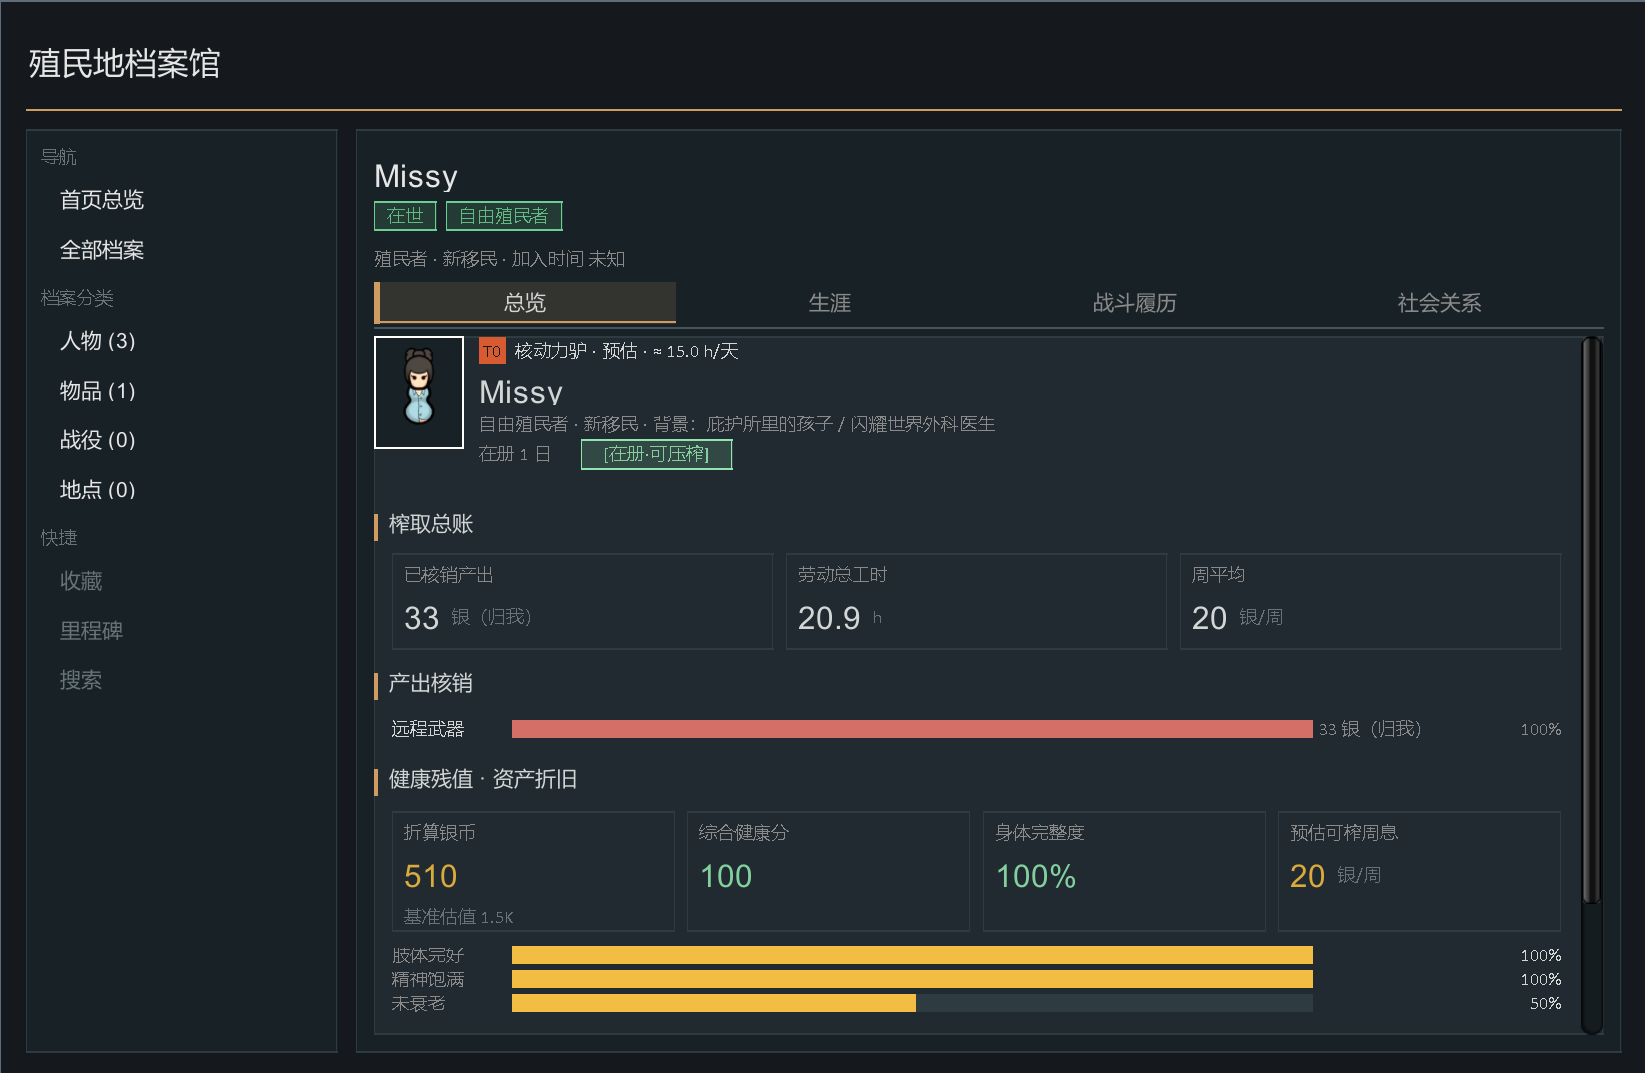
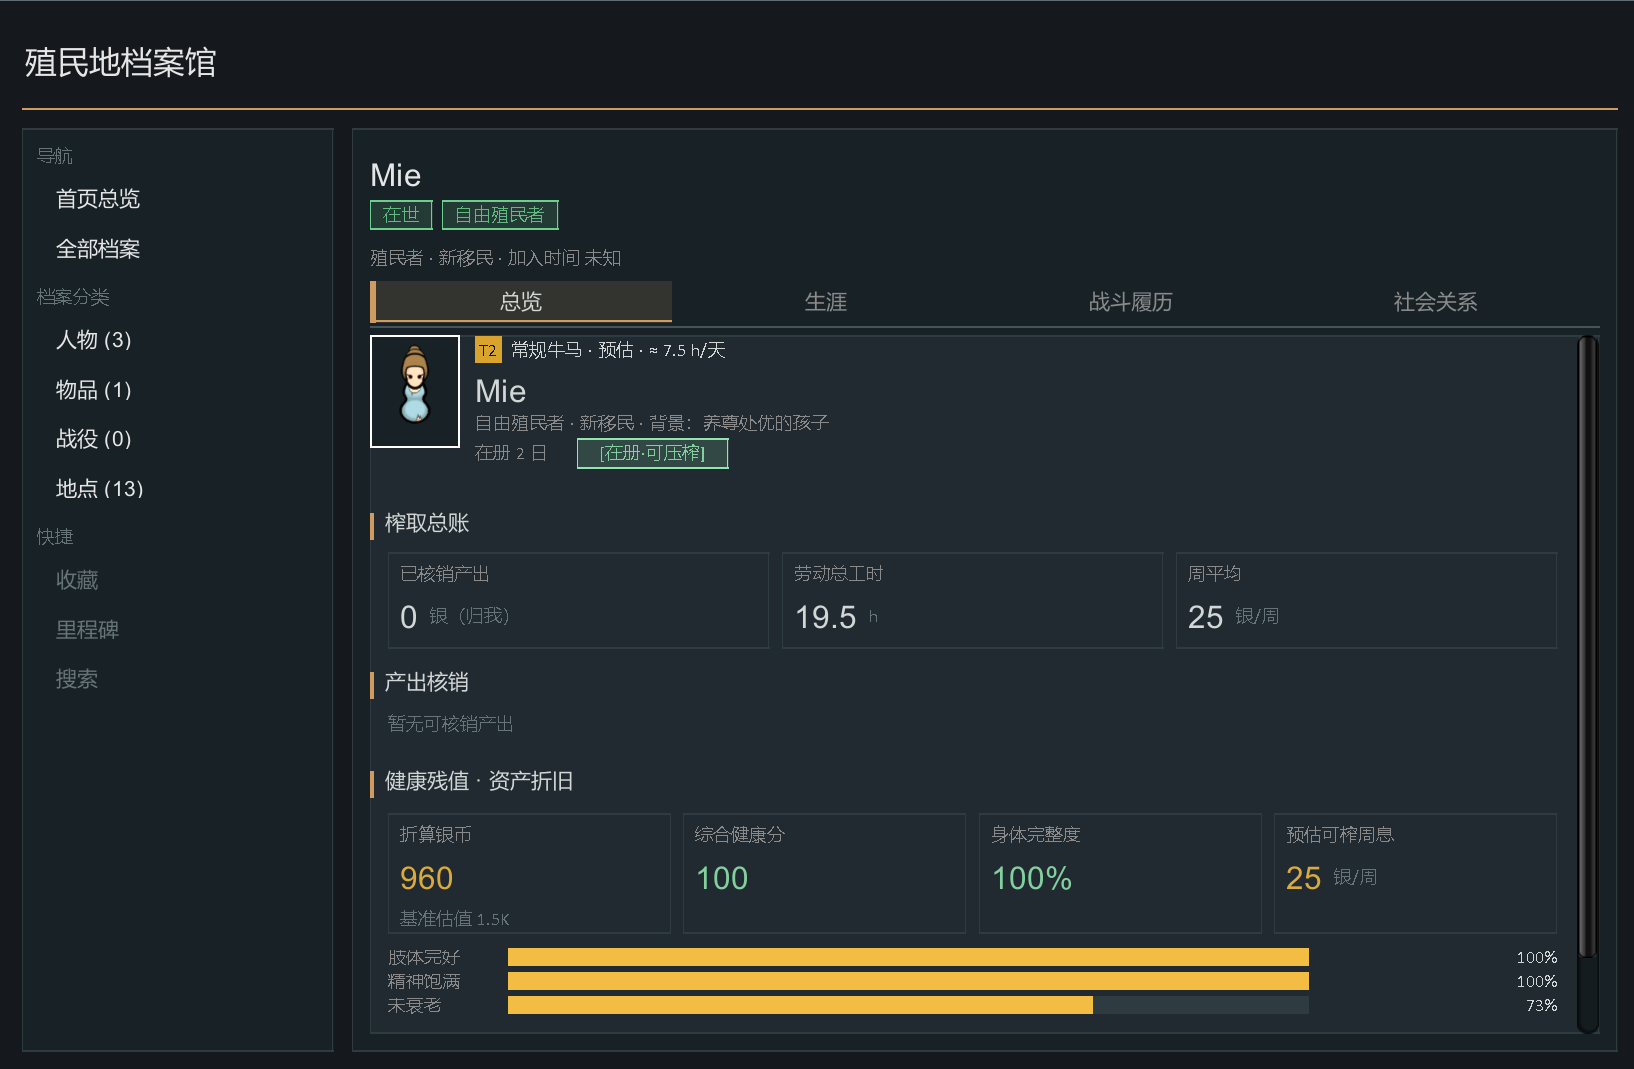
fix: restore GUI color state (prevColor) in archive tab; centralize location-atlas trade category mapping; refresh screenshots

diff --git a/Source/PersonalChronicle/Archive/ArchiveMainTabWindow.cs b/Source/PersonalChronicle/Archive/ArchiveMainTabWindow.cs
@@ -1322,7 +1322,7 @@ namespace PersonalChronicle.Archive
             GUI.color = ArchiveUiStyle.Dim;
             Widgets.Label(new Rect(inner.x, y, inner.width, 18f),
                 "PersonalChronicle.UI.Navigation".Translate().ToString());
-            GUI.color = Color.white;
+            GUI.color = prevColor;
             y += 20f;
 
             if (DrawSidebarItem(inner.x, y, inner.width, itemHeight,
@@ -1343,7 +1343,7 @@ namespace PersonalChronicle.Archive
             GUI.color = ArchiveUiStyle.Dim;
             Widgets.Label(new Rect(inner.x, y, inner.width, 18f),
                 "PersonalChronicle.UI.Categories".Translate().ToString());
-            GUI.color = Color.white;
+            GUI.color = prevColor;
             y += 20f;
 
             y = DrawSidebarCategory(inner, y, itemHeight, itemGap, ArchiveCategoryKeys.Pawn, service);
@@ -1356,7 +1356,7 @@ namespace PersonalChronicle.Archive
             GUI.color = ArchiveUiStyle.Dim;
             Widgets.Label(new Rect(inner.x, y, inner.width, 18f),
                 "PersonalChronicle.UI.Tools".Translate().ToString());
-            GUI.color = Color.white;
+            GUI.color = prevColor;
             y += 20f;
 
             y = DrawSidebarTool(inner, y, itemHeight, itemGap, "PersonalChronicle.UI.Favorites");
@@ -1468,7 +1468,7 @@ namespace PersonalChronicle.Archive
             GUI.color = ArchiveUiStyle.SecondaryText;
             Widgets.Label(new Rect(viewRect.x, y, viewRect.width, 18f),
                 "PersonalChronicle.UI.ArchiveHomeDesc".Translate().ToString());
-            GUI.color = Color.white;
+            GUI.color = prevColor;
             Text.Font = GameFont.Small;
             y += 26f;
 
@@ -1597,7 +1597,7 @@ namespace PersonalChronicle.Archive
                 float connectorEnd = left ? cardRect.x : nodeRect.x;
                 float connectorLen = Mathf.Max(0f, connectorEnd - connectorStart);
                 Widgets.DrawLineHorizontal(connectorStart, currentY + rowH / 2f, connectorLen);
-                GUI.color = Color.white;
+                GUI.color = prevColor;
 
                 ArchiveUiStyle.DrawPanel(cardRect);
                 Rect cardInner = cardRect.ContractedBy(6f);
@@ -1606,7 +1606,7 @@ namespace PersonalChronicle.Archive
                 Text.Font = GameFont.Tiny;
                 GUI.color = ArchiveUiStyle.SecondaryText;
                 Widgets.Label(new Rect(cardInner.x, cardInner.y + 22f, cardInner.width, 16f), date);
-                GUI.color = Color.white;
+                GUI.color = prevColor;
                 if (Widgets.ButtonInvisible(cardRect))
                 {
                     OpenEventDetail(service, ev);
@@ -2287,7 +2287,7 @@ namespace PersonalChronicle.Archive
             GUI.color = ArchiveUiStyle.SecondaryText;
             Widgets.Label(new Rect(viewRect.x, y, viewRect.width, 18f),
                 "PersonalChronicle.UI.OverviewDesc".Translate().ToString());
-            GUI.color = Color.white;
+            GUI.color = prevColor;
             Text.Font = GameFont.Small;
             y += 28f;
 
@@ -2400,7 +2400,7 @@ namespace PersonalChronicle.Archive
                 GUI.color = ArchiveUiStyle.Muted;
                 Widgets.Label(new Rect(card.x + UITheme.CardPadX, card.y + 4f, card.width - UITheme.CardPadX * 2f, 16f),
                     clickable ? CategoryLabel(categoryKey) : "PersonalChronicle.UI.StatsOnlyNote".Translate().ToString());
-                GUI.color = Color.white;
+                GUI.color = prevColor;
 
                 Text.Font = GameFont.Small;
                 Widgets.Label(new Rect(card.x + UITheme.CardPadX, card.y + 22f, card.width - UITheme.CardPadX * 2f, 20f), ObjectDisplayLabel(obj));
@@ -2408,7 +2408,7 @@ namespace PersonalChronicle.Archive
                 Text.Font = GameFont.Tiny;
                 GUI.color = ArchiveUiStyle.Muted;
                 Widgets.Label(new Rect(card.x + UITheme.CardPadX, card.y + 44f, card.width - UITheme.CardPadX * 2f, 18f), ObjectSubLabel(obj));
-                GUI.color = Color.white;
+                GUI.color = prevColor;
 
                 if (clickable && Widgets.ButtonInvisible(card))
                 {
@@ -3072,7 +3072,7 @@ namespace PersonalChronicle.Archive
                 GUI.color = UITheme.SecondaryText;
                 Widgets.Label(new Rect(rect.x, y, rect.width, 18f),
                     "PersonalChronicle.UI.NoPlaceHistory".Translate().ToString());
-                GUI.color = Color.white;
+                GUI.color = prevColor;
                 return y + 22f;
             }
             Text.Font = GameFont.Tiny;
@@ -3083,7 +3083,7 @@ namespace PersonalChronicle.Archive
                 "PersonalChronicle.UI.PlaceEnter".Translate().ToString());
             Widgets.Label(new Rect(rect.x + rect.width * 0.72f, y, rect.width * 0.26f, 16f),
                 "PersonalChronicle.UI.PlaceLeave".Translate().ToString());
-            GUI.color = Color.white;
+            GUI.color = prevColor;
             y += 18f;
             int shown = 0;
             for (int i = pawn.PlaceHistory.Count - 1; i >= 0 && shown < maxRows; i--)
@@ -3580,7 +3580,7 @@ namespace PersonalChronicle.Archive
                 Text.Font = GameFont.Tiny;
                 GUI.color = ArchiveUiStyle.SecondaryText;
                 Widgets.Label(new Rect(row.x + row.width - 196f, row.y + 6f, 190f, 18f), link.CategoryLabel);
-                GUI.color = Color.white;
+                GUI.color = prevColor;
                 Text.Font = GameFont.Small;
                 if (link.Target != NavTarget.None && Widgets.ButtonInvisible(row))
                 {
@@ -3755,7 +3755,7 @@ namespace PersonalChronicle.Archive
                 Text.Font = GameFont.Tiny;
                 GUI.color = UITheme.SecondaryText;
                 Widgets.Label(new Rect(row.x + row.width - 196f, row.y + 6f, 192f, 18f), part);
-                GUI.color = Color.white;
+                GUI.color = prevColor;
                 Widgets.DrawLineHorizontal(row.x, row.yMax, row.width);
                 y += TimelineRowHeight;
             }
@@ -3907,7 +3907,7 @@ namespace PersonalChronicle.Archive
             GUI.color = UITheme.SecondaryText;
             Widgets.Label(new Rect(rect.x, rect.y, rect.width, 24f),
                 "PersonalChronicle.UI.NoLiveData".Translate().ToString());
-            GUI.color = Color.white;
+            GUI.color = prevColor;
         }
 
         // ---- Detail: production tab (LD-1) -----------------------------------
@@ -3934,7 +3934,7 @@ namespace PersonalChronicle.Archive
                 "PersonalChronicle.UI.ProductionCount".Translate().ToString());
             Widgets.Label(new Rect(rect.x + rect.width - 190f, y, 180f, 18f),
                 "PersonalChronicle.UI.ProductionLastTime".Translate().ToString());
-            GUI.color = Color.white;
+            GUI.color = prevColor;
             y += 22f;
 
             for (int i = 0; i < cachedProductionLines.Count; i++)
@@ -4010,7 +4010,7 @@ namespace PersonalChronicle.Archive
                     GUI.color = ArchiveUiStyle.Muted;
                     Widgets.Label(new Rect(x + UITheme.CardPadX, cardY + 28f, width - UITheme.CardPadX * 2f, 16f),
                         "PersonalChronicle.UI.ProductionCard".Translate(type.Quantity, FormatMarketValue(type.MarketValue)).ToString());
-                    GUI.color = Color.white;
+                    GUI.color = prevColor;
                 }
                 y += ((types.Count + 1) / 2) * 58f;
             }
@@ -4056,7 +4056,7 @@ namespace PersonalChronicle.Archive
                     Text.Anchor = TextAnchor.MiddleCenter;
                     GUI.color = current ? ArchiveUiStyle.Text : ArchiveUiStyle.Muted;
                     Widgets.Label(rung, tier.DisplayCode ?? tier.DefName);
-                    GUI.color = Color.white;
+                    GUI.color = prevColor;
                     Text.Anchor = TextAnchor.UpperLeft;
                     TooltipHandler.TipRegion(rung,
                         TranslateIntensityKey(tier.LabelKey, tier.DisplayCode ?? tier.DefName));
@@ -4115,7 +4115,7 @@ namespace PersonalChronicle.Archive
                     : "PersonalChronicle.UI.Intensity.ObservedWindow".Translate(
                         FormatDays(intensity != null ? intensity.ObservedDays : 0d)).ToString();
                 Widgets.Label(new Rect(badge.x + 8f, badge.y + 44f, badge.width - 16f, 20f), badgeSubtitle);
-                GUI.color = Color.white;
+                GUI.color = prevColor;
                 Text.Anchor = TextAnchor.UpperLeft;
             }
             finally
@@ -4730,7 +4730,7 @@ namespace PersonalChronicle.Archive
             GUI.color = ArchiveUiStyle.Muted;
             Widgets.Label(new Rect(rect.x, y, rect.width, 28f),
                 "PersonalChronicle.UI.WorkTimeFootnote".Translate().ToString());
-            GUI.color = Color.white;
+            GUI.color = prevColor;
             y += 32f;
 
             if (cachedIntensityWorkTypes == null || cachedIntensityWorkTypes.Count == 0)
@@ -4775,7 +4775,7 @@ namespace PersonalChronicle.Archive
                     "PersonalChronicle.UI.Intensity.WorkShare".Translate(
                         Mathf.RoundToInt(row.Share01 * 100f),
                         Mathf.RoundToInt(row.RelativeToMaximum01 * 100f)).ToString());
-                GUI.color = Color.white;
+                GUI.color = prevColor;
                 Widgets.FillableBar(new Rect(card.x + UITheme.CardPadX, card.y + 106f, card.width - UITheme.CardPadX * 2f, 6f),
                     Mathf.Clamp01(row.Share01));
             }
@@ -4920,7 +4920,7 @@ namespace PersonalChronicle.Archive
                 GUI.color = UITheme.SecondaryText;
                 Widgets.Label(new Rect(row.x + row.width - 196f, row.y + 6f, 190f, 18f),
                     "PersonalChronicle.UI.SharedEvents".Translate().ToString());
-                GUI.color = Color.white;
+                GUI.color = prevColor;
                 if (link.Target != NavTarget.None && Widgets.ButtonInvisible(row))
                 {
                     NavigateTarget(service, link.Target, link.StableId, null);
@@ -5425,6 +5425,7 @@ namespace PersonalChronicle.Archive
 
         private void DrawPlacesTab(Rect rect, IArchiveService service)
         {
+            Color prevColor = GUI.color;
             float y = rect.y;
             DrawSectionTitle(rect, ref y, "PersonalChronicle.UI.PlacesCurrent".Translate().ToString());
 
@@ -5438,7 +5439,7 @@ namespace PersonalChronicle.Archive
                 GUI.color = UITheme.SecondaryText;
                 Widgets.Label(new Rect(rect.x, y + 26f, rect.width, 40f),
                     "PersonalChronicle.UI.NoLocationExplanation".Translate().ToString());
-                GUI.color = Color.white;
+                GUI.color = prevColor;
                 return;
             }
 
@@ -5956,6 +5957,7 @@ namespace PersonalChronicle.Archive
 
         private void DrawDetailTimeline(Rect rect, IArchiveService service)
         {
+            Color prevColor = GUI.color;
             float y = DrawTimelineToolbar(rect, rect.y);
             int visibleCount = 0;
             for (int i = 0; i < cachedDetailEvents.Count; i++)
@@ -5985,7 +5987,7 @@ namespace PersonalChronicle.Archive
                 Text.Font = GameFont.Tiny;
                 GUI.color = UITheme.SecondaryText;
                 Widgets.Label(new Rect(row.x + row.width - 186f, row.y + 3f, 182f, 18f), line.ParamsText);
-                GUI.color = Color.white;
+                GUI.color = prevColor;
 
                 float cy = row.y + TimelineRowHeight;
                 if (descHeight > 0f)
@@ -5993,7 +5995,7 @@ namespace PersonalChronicle.Archive
                     Text.Font = GameFont.Tiny;
                     GUI.color = UITheme.SecondaryText;
                     Widgets.Label(new Rect(row.x + 4f, cy, row.width - 8f, descHeight), line.DescriptionText);
-                    GUI.color = Color.white;
+                    GUI.color = prevColor;
                     cy += descHeight;
                 }
                 if (chipsHeight > 0f)
@@ -6045,12 +6047,13 @@ namespace PersonalChronicle.Archive
 
         private static bool DrawTimelineToggle(Rect rect, bool enabled, string label)
         {
+            Color prevColor = GUI.color;
             ArchiveUiStyle.DrawSelectedNavigation(rect, enabled);
             Text.Anchor = TextAnchor.MiddleLeft;
             GUI.color = enabled ? ArchiveUiStyle.Text : ArchiveUiStyle.Muted;
             Widgets.Label(new Rect(rect.x + 8f, rect.y, rect.width - 16f, rect.height), label);
             Text.Anchor = TextAnchor.UpperLeft;
-            GUI.color = Color.white;
+            GUI.color = prevColor;
             if (Widgets.ButtonInvisible(rect))
             {
                 enabled = !enabled;
@@ -6116,6 +6119,7 @@ namespace PersonalChronicle.Archive
 
         private void DrawChips(Rect rect, List<ChipView> chips, IArchiveService service)
         {
+            Color prevColor = GUI.color;
             float x = rect.x;
             Text.Font = GameFont.Tiny;
             for (int i = 0; i < chips.Count; i++)
@@ -6135,7 +6139,7 @@ namespace PersonalChronicle.Archive
                     ? UITheme.PillBlue
                     : UITheme.SecondaryText;
                 Widgets.Label(chipRect, chip.Label);
-                GUI.color = Color.white;
+                GUI.color = prevColor;
                 if (chip.Target != NavTarget.None && Widgets.ButtonInvisible(chipRect))
                 {
                     NavigateTarget(service, chip.Target, chip.StableId, null);
@@ -6148,6 +6152,7 @@ namespace PersonalChronicle.Archive
 
         private void DrawEventContent(Rect inner, IArchiveService service)
         {
+            Color prevColor = GUI.color;
             if (cachedEventDetail == null)
             {
                 Text.Font = GameFont.Small;
@@ -6176,7 +6181,7 @@ namespace PersonalChronicle.Archive
                 desc = desc + " · " + cachedEventDetail.Primary.LabelSnapshot;
             }
             Widgets.Label(new Rect(viewRect.x, y, viewRect.width, 18f), desc);
-            GUI.color = Color.white;
+            GUI.color = prevColor;
             y += 26f;
 
             // Association network tree panel.
@@ -6205,7 +6210,7 @@ namespace PersonalChronicle.Archive
                 string.IsNullOrEmpty(cachedEventDescription)
                     ? "PersonalChronicle.UI.NoEvents".Translate().ToString()
                     : cachedEventDescription);
-            GUI.color = Color.white;
+            GUI.color = prevColor;
             Text.Font = GameFont.Small;
 
             Widgets.EndScrollView();
@@ -6272,7 +6277,7 @@ namespace PersonalChronicle.Archive
                     ? UITheme.PillBlue
                     : UITheme.SecondaryText;
                 Widgets.Label(labelRect, line.Label);
-                GUI.color = Color.white;
+                GUI.color = prevColor;
 
                 if (line.Target != NavTarget.None)
                 {

diff --git a/Source/PersonalChronicle/Capture/LocationAtlasCapture.cs b/Source/PersonalChronicle/Capture/LocationAtlasCapture.cs
@@ -545,28 +545,49 @@ namespace PersonalChronicle.Capture
             }
         }
 
+        // Centralized trade-category normalization. Source DefNames come from
+        // vanilla StockGenerator_Category.categoryDef; the mapping below is the
+        // single place that translates them into the 8 display keys used by the
+        // location-atlas UI. New categories are added here, not via scattered
+        // string comparisons across the capture layer.
+        private static readonly Dictionary<string, string> CategoryDefNameToKey =
+            new Dictionary<string, string>(System.StringComparer.Ordinal)
+            {
+                { "ResourcesRaw", "res" },
+                { "Textiles", "cloth" },
+                { "FoodRaw", "food" },
+                { "FoodMeals", "food" },
+                { "Drugs", "drug" },
+                { "MedicalItems", "drug" },
+            };
+
+        // Keyword fragments for DefNames that have no fixed base name (e.g.
+        // weapon/apparel families). Kept next to the explicit table above.
+        private static readonly (string Fragment, string Key)[] CategoryDefNameFragments =
+        {
+            ("Weapon", "weapon"), ("Melee", "weapon"), ("Ranged", "weapon"), ("Gun", "weapon"),
+            ("Armor", "armor"), ("Apparel", "armor"), ("Clothes", "armor"),
+            ("Implant", "implant"),
+            ("Tech", "tech"), ("Neurotrainer", "tech"), ("Artifact", "tech"), ("Book", "tech"),
+        };
+
         private static string CategoryToKey(string defName)
         {
             if (string.IsNullOrEmpty(defName))
             {
                 return null;
             }
-            if (defName == "ResourcesRaw") return "res";
-            if (defName == "Textiles") return "cloth";
-            if (defName == "FoodRaw" || defName == "FoodMeals") return "food";
-            if (defName == "Drugs" || defName == "MedicalItems") return "drug";
-            if (defName.IndexOf("Weapon", StringComparison.Ordinal) >= 0
-                || defName.IndexOf("Melee", StringComparison.Ordinal) >= 0
-                || defName.IndexOf("Ranged", StringComparison.Ordinal) >= 0
-                || defName.IndexOf("Gun", StringComparison.Ordinal) >= 0) return "weapon";
-            if (defName.IndexOf("Armor", StringComparison.Ordinal) >= 0
-                || defName.IndexOf("Apparel", StringComparison.Ordinal) >= 0
-                || defName.IndexOf("Clothes", StringComparison.Ordinal) >= 0) return "armor";
-            if (defName.IndexOf("Implant", StringComparison.Ordinal) >= 0) return "implant";
-            if (defName.IndexOf("Tech", StringComparison.Ordinal) >= 0
-                || defName.IndexOf("Neurotrainer", StringComparison.Ordinal) >= 0
-                || defName.IndexOf("Artifact", StringComparison.Ordinal) >= 0
-                || defName.IndexOf("Book", StringComparison.Ordinal) >= 0) return "tech";
+            if (CategoryDefNameToKey.TryGetValue(defName, out string directKey))
+            {
+                return directKey;
+            }
+            foreach (var (fragment, key) in CategoryDefNameFragments)
+            {
+                if (defName.IndexOf(fragment, StringComparison.Ordinal) >= 0)
+                {
+                    return key;
+                }
+            }
             return null;
         }
 
